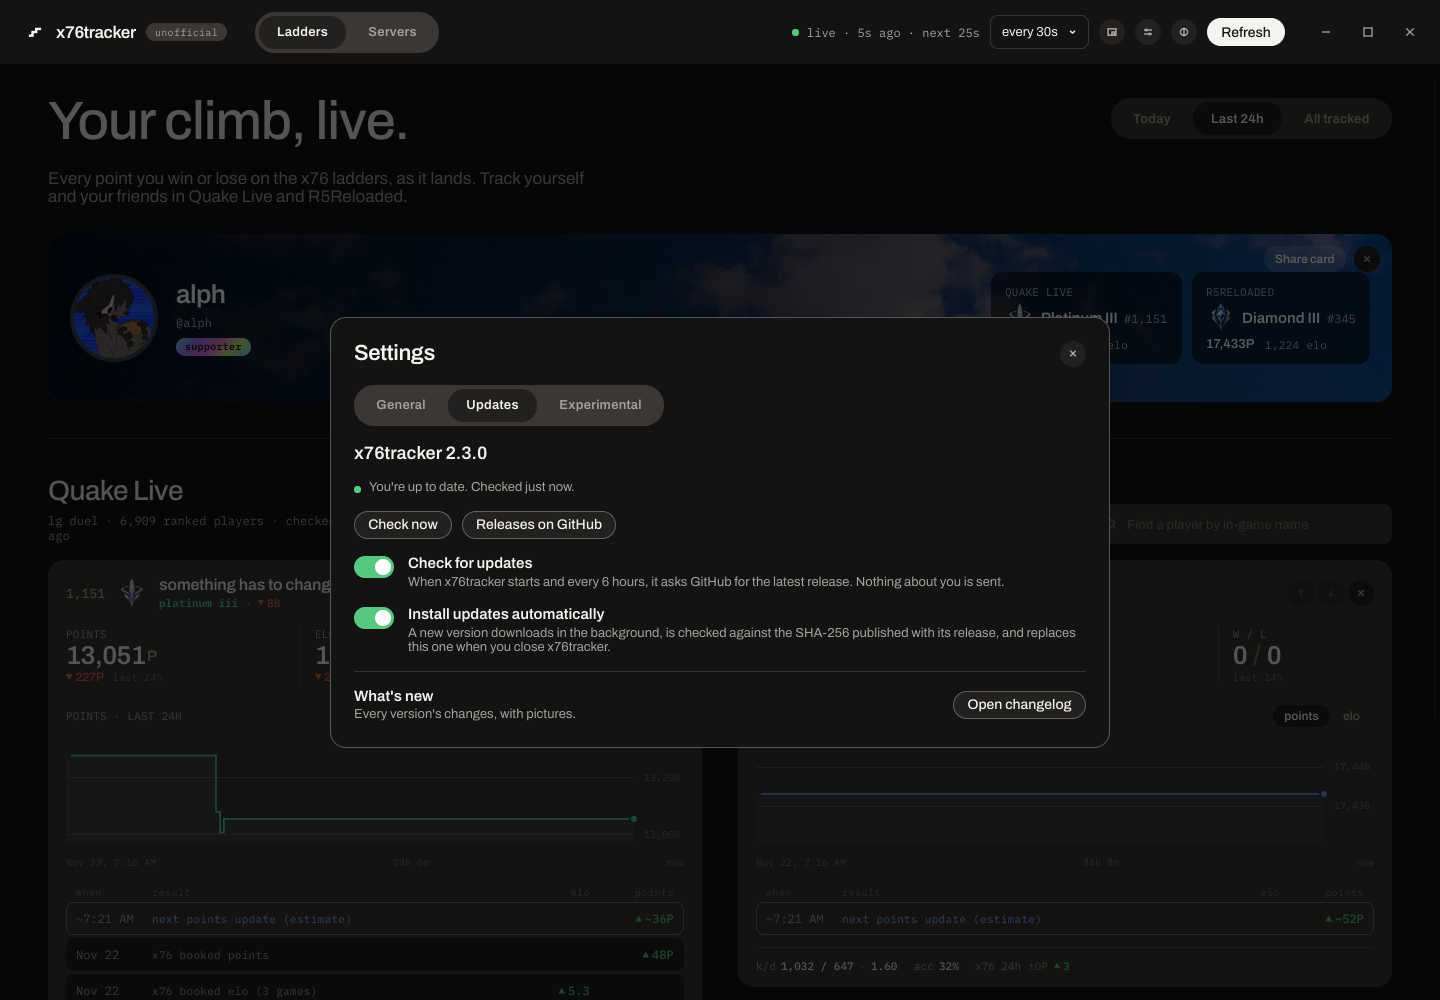
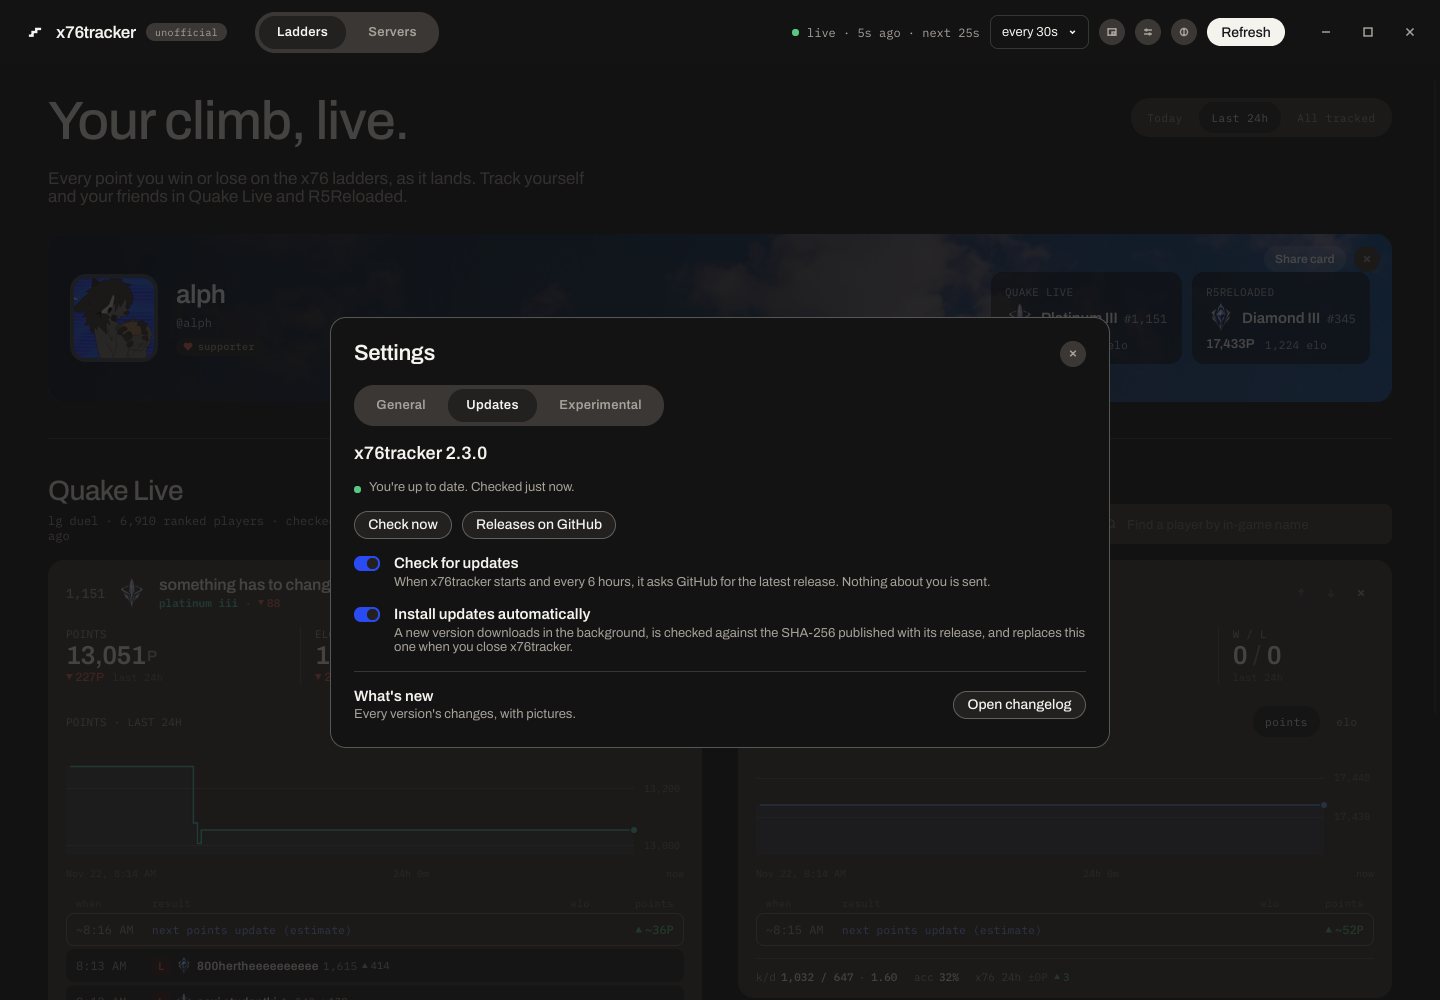
Look more like x76.gg
From a review of x76.gg's own styles: switches in x76 blue (smaller, a
springy knob), an accent token for fills (#2b4bf2 in both themes),
rounded-square avatars with a blue initial fallback, a red heart for
supporters, mono filter pills with a sliding spring blob (no hover
recolour), sentence-case settings headings and lowercase column heads,
borderless surface-2 dropdowns with a fainter popup edge, a warm canvas
scrim instead of black, servers with an online/offline word and one
segment per player slot (24 at most), the update button in blue with a
soft glow pulse, no pressed dim and .45 disabled on buttons, a red-text
secondary button instead of a red fill, solid Prism fallback diamond,
x76's quick ease-out, 1.5px chart lines and .1 area fills, tiles at
radius 12, amber for stale or failed status, and loading text without
an ellipsis. The upset chip stays as it was.

Changelog pictures and README shots re-rendered.

diff --git a/src/view.rs b/src/view.rs
@@ -1459,7 +1459,7 @@ pub fn servers_status(core: &Core) -> String {
     match (&core.servers_error, core.servers_at) {
         (Some(e), _) => format!("last check failed: {e}"),
         (None, Some(t)) => format!("checked {} · every minute", ago(Some(t))),
-        (None, None) => "checking x76's servers…".into(),
+        (None, None) => "checking x76's servers".into(),
     }
 }
 
@@ -1473,7 +1473,7 @@ pub fn live_status(core: &Core) -> (String, i32) {
         return ("idle · track a player to start".into(), 0);
     }
     if tracked.iter().any(|g| core.status[g].busy) {
-        return ("checking the ladder…".into(), 2);
+        return ("checking the ladder".into(), 2);
     }
     if tracked.iter().any(|g| core.status[g].failing()) {
         return (format!("can't reach x76{}", next.map(|n| format!(" · retry in {n}s")).unwrap_or_default()), 3);
@@ -1493,7 +1493,7 @@ pub fn game_status(core: &Core, game: Game) -> (String, bool) {
         return (format!("{} ranked players · checked {}", thousands(st.count as i64), ago(st.fetched)), false);
     }
     if st.busy || tracked {
-        return ("loading ladder…".into(), false);
+        return ("loading the ladder".into(), false);
     }
     ("not checked until you track someone".into(), false)
 }
@@ -1665,7 +1665,7 @@ pub fn update_status(core: &Core) -> (String, i32) {
         return (format!("Downloading {v}… {}%", (p * 100.0).round()), 1);
     }
     if u.checking {
-        return ("Checking GitHub for a new version…".into(), 1);
+        return ("Checking GitHub for a new version.".into(), 1);
     }
     if let Some(e) = &u.error {
         return (e.clone(), 3);
@@ -1704,7 +1704,7 @@ pub fn patch_status(core: &Core) -> (String, i32) {
         }
         (Some(State::Off), _) => ("Off. The game's script is untouched.".into(), 0),
         (Some(State::NoScript), _) => ("This R5Reloaded folder has no cl_obituary.gnut, so there's nothing to patch.".into(), 3),
-        (None, _) => ("Checking the game folder…".into(), 1),
+        (None, _) => ("Checking the game folder.".into(), 1),
     }
 }
 
@@ -1732,7 +1732,7 @@ pub fn ql_log_status(core: &Core) -> (String, i32) {
             Some(age) if age < 600.0 => (format!("Off in autoexec.cfg, but logfile is on in the game right now, so the console log{whose} is read anyway."), 2),
             _ => ("Off. autoexec.cfg is untouched.".into(), 0),
         },
-        None => ("Checking the game folder…".into(), 1),
+        None => ("Checking the game folder.".into(), 1),
     }
 }
 
@@ -1757,7 +1757,7 @@ pub fn discord_status(core: &Core) -> DiscordStatus {
         let who = d.rpc_user.as_ref().map(|u| format!(" for {u}")).unwrap_or_default();
         (format!("Showing {game} on Discord{who}."), 2)
     } else if let Some(g) = d.playing {
-        (format!("{} is running; connecting to Discord…", g.label()), 1)
+        (format!("{} is running; connecting to Discord.", g.label()), 1)
     } else {
         ("On. It appears once R5Reloaded or Quake Live is running.".to_string(), 1)
     };
@@ -1776,10 +1776,10 @@ pub fn discord_status(core: &Core) -> DiscordStatus {
     } else if let Some(t) = d.ok_at {
         (format!("Widget updated {}. The next update goes out when your numbers change.", ago(Some(t))), 2)
     } else {
-        ("Sending the first update…".to_string(), 1)
+        ("Sending the first update.".to_string(), 1)
     };
     let layout = match &d.layout_note {
-        _ if d.layout_busy => ("Reading the widget layout from Discord…".to_string(), false, true),
+        _ if d.layout_busy => ("Reading the widget layout from Discord.".to_string(), false, true),
         Some((err, text)) => (text.clone(), *err, false),
         None if !cfg.layout.is_empty() => {
             let name = if cfg.widget_name.is_empty() { "The widget".to_string() } else { format!("“{}”", cfg.widget_name) };

diff --git a/src/profile.rs b/src/profile.rs
@@ -82,10 +82,14 @@ pub fn picture(url: &str, max_side: u32, circle: bool) -> Option<SharedPixelBuff
     let mut rgba = img.to_rgba8();
     if circle {
         let (w, h) = rgba.dimensions();
-        let (cx, cy, r) = (w as f32 / 2.0, h as f32 / 2.0, w.min(h) as f32 / 2.0);
+        // a rounded square, like x76's avatars (corner radius 15% of the side), with a 1px soft edge
+        let (cx, cy, half) = (w as f32 / 2.0, h as f32 / 2.0, w.min(h) as f32 / 2.0);
+        let r = w.min(h) as f32 * 0.15;
         for (x, y, px) in rgba.enumerate_pixels_mut() {
-            let d = ((x as f32 + 0.5 - cx).powi(2) + (y as f32 + 0.5 - cy).powi(2)).sqrt();
-            let cover = (r - d + 0.5).clamp(0.0, 1.0); // 1px soft edge
+            let dx = ((x as f32 + 0.5 - cx).abs() - (half - r)).max(0.0);
+            let dy = ((y as f32 + 0.5 - cy).abs() - (half - r)).max(0.0);
+            let d = (dx * dx + dy * dy).sqrt() - r;
+            let cover = (0.5 - d).clamp(0.0, 1.0);
             px[3] = (px[3] as f32 * cover) as u8;
         }
     }

diff --git a/src/main.rs b/src/main.rs
@@ -839,7 +839,7 @@ fn on_search(app: &AppWindow, shared: &Arc<Shared>, game: Game, query: String) {
         set_results(app, game, &hits, &search_message(game, &query, hits.len(), total));
         return;
     }
-    set_results(app, game, &[], &format!("Loading the {} ladder…", game.label()));
+    set_results(app, game, &[], &format!("Loading the {} ladder.", game.label()));
     let (weak, shared) = (app.as_weak(), shared.clone());
     std::thread::spawn(move || {
         let outcome = shared.search_board(game).map(|b| tracker::search(&b, game, &query, &tracked, SEARCH_SHOWN));

diff --git a/CHANGELOG.md b/CHANGELOG.md
@@ -28,6 +28,7 @@ Each version's section is shown in the app (What's new) and used as its GitHub r
 - **Quake Live stats:** your Quake Live card shows your average accuracy over the period's fights.
 - **Discord is experimental:** Rich Presence and the profile widget moved to their own tab, Settings → Experimental. Both are off until you turn them on, and nothing changes if you already use them.
   ![Settings → Experimental: Rich Presence and the Discord profile widget](docs/changelog/2.3.0-experimental@2x.png)
+- **Looks more like x76.gg:** switches are x76 blue, smaller, and their knob springs across. Avatars are rounded squares, and supporters get x76's red heart. The Today / Last 24h / All tracked and points / elo switches are x76's mono filter pills, and the chosen option slides over. Settings headings are in sentence case. Servers show online or offline as a word, with one blue segment per player slot. Pop-ups dim the window in its own warm colour instead of black, and loading messages lose their "…".
 
 ### Fixed
 
